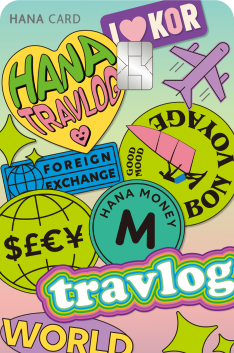
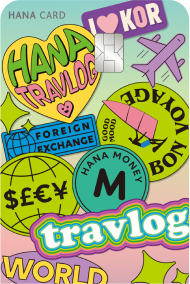
반응형페이지(수정06.14)

diff --git a/css/media.css b/css/media.css
@@ -29,7 +29,7 @@
     width: 100%;
   }
 
-  .img_wrap img{transform: scale(1.2);}
+  .img_wrap img{transform: scale(1.1);}
 
   /* 주요혜택 */
 
@@ -50,6 +50,7 @@
     justify-content: center;
     transform: translateX(0.5rem);
     margin-top: 2rem;
+    width: 100rem;
   }
 
   .atm1{
@@ -237,18 +238,7 @@
     width: 45rem;
   }
 
-  .img_wrap img{transform: scale(1.2);}
-
-  .deco2{
-    top:18rem;
-    left: 4rem;
-    width: 10rem;
-  }
-
-  .deco3{
-    left: 14rem;
-    margin-top: -2.2rem;
-  }
+  .deco img{transform:scale(1);}
 
   .in_txt p::after{
     top: 31.5rem;
@@ -277,11 +267,12 @@
     justify-content: center;
     transform: translateX(0.5rem);
     margin-top: 2rem;
+    width: 100rem;
   }
 
   .atm1{
     width: 30rem;
-    margin-right: 3rem;
+    margin-left: 4rem;
   }
 
   /* 서비스 */
@@ -343,11 +334,7 @@
     height: 45rem;
     display: flex;
     margin-left: 17rem;
-    margin-top: 8rem;
-  }
-
-  .d1, .d3 img{
-    margin-left: 0;
+    margin-top: 4rem;
   }
 
   .card_d img{
@@ -357,35 +344,37 @@
   }
 
   .d1{
-    margin-right: 3.3rem;
     width: 30rem;
-    height: 42rem;
+    height: 40rem;
     overflow: hidden;
+    margin-left: 6rem;
   }
-  .d1 img{width: 30rem;}
+  .d1 img{width: 25rem;}
 
   .d2{
-    width: 29rem;
-    height: 42rem;
+    width: 22rem;
+    height: 37rem;
     overflow: hidden;
+    margin-left: -6rem;
+    margin-top: 3rem;
   }
   .d3{
-    width: 29rem;
-    height: 42rem;
+    width: 22rem;
+    height: 37rem;
     overflow: hidden;
+    margin-left: 3rem;
+    margin-top: 3rem;
   }
 
   .d2, .d3 img{padding-top: 15rem;}
-  .d1 img{padding-top: 4rem;}
+  .d1 img{padding-top: 8rem;}
 
-  .card_d img:hover{
-    transform:rotate(0deg);
-  }
+  .card_d img:hover{transform:rotate(0deg);}
 
-  .d1 img:hover{transform: translateY(-3.7rem);}
+  .d1 img:hover{transform: translateY(-3.5rem);}
 
-  .d2 img:hover{transform: translateY(-4.3rem);}
-  .d3 img:hover{transform: translateY(-4.3rem);}
+  .d2 img:hover{transform: translateY(-4.1rem);}
+  .d3 img:hover{transform: translateY(-4.1rem);}
 
   /* 신청하기 */
 

diff --git a/css/style.css b/css/style.css
@@ -168,10 +168,6 @@ header .hd{
   margin-top: 3rem;
   opacity: 0;
 }
-.img_wrap{
-  margin-top: 3rem;
-  opacity: 0;
-}
 
 .img_wrap img{transform: scale(1);}
 
@@ -201,27 +197,11 @@ header .hd{
 }
 
 .img_wrap{
-  position: relative;
-  width: 42rem;
-  height: 45rem;
+  margin-top: 6rem;
+  opacity: 0;
 }
 
-.deco1{
-  position: absolute;
-  top: 35rem;
-}
-.deco2{
-  position: absolute;
-  top: 6.5em;
-  left: 4rem;
-}
-.deco3{
-  position: absolute;
-  transform: rotate(90deg);
-  width: 32rem;
-  top: 12rem;
-  left: 11rem;
-}
+.deco img{margin: 0 auto;}
 
 /* 주요혜택 */
 
@@ -238,10 +218,16 @@ header .hd{
   font-size: 2.9rem;
 }
 
+.atm_all{
+  width: 24rem;
+  margin: 0 auto;
+}
+
+
 .atm1{
   margin-top: 9rem;
+  justify-content: center;
   display: inline-block;
-  margin-left: 9rem;
   opacity: 0;
 }
 
@@ -270,10 +256,12 @@ header .hd{
 
 /* 서비스 */
 
+#service{
+  margin-top: 3rem;
+}
+
 .point{
   padding: 3rem;
-  padding-top: 6rem;
-  height: 154rem;
   opacity: 0;
 }
 
@@ -282,7 +270,6 @@ header .hd{
   font-weight: 400;
   font-size: 2.7rem;
   margin-bottom: 4rem;
-  margin-top: 3rem;
 }
 
 .point span{
@@ -349,10 +336,15 @@ header .hd{
 }
 
 /* 카드디자인 */
+
+
+#design{
+  margin-top: -3rem;
+}
+
 .design_all{
   padding: 3rem;
   padding-top: 6rem;
-  height: 112rem;
   background-color: #7A4BFF;
 }
 
@@ -380,25 +372,23 @@ header .hd{
   font-weight: 500;
 }
 
-.card_d{
-  height: 80rem;
-}
+.card_d{overflow: hidden;}
 
 .card_d img{
-  width: 20rem;
-  transform: translateX(6rem) rotate(-90deg);
+  transform: translateX(2rem) rotate(-90deg);
   transition: 0.4s;
 }
 
 .d1, .d2, .d3{opacity: 0;}
 
 .d2 img{
-  transform: translateX(-6rem) rotate(90deg);
+  transform: translateX(-2rem) rotate(90deg);
   margin-top: -5rem;
+  padding-left: 1rem;
 }
 
 .d1, .d3 img{
-  margin-left: 20rem;
+  margin-left: 18.7rem;
 }
 
 .d3 img{margin-top: -5rem;}

diff --git a/index.html b/index.html
@@ -82,9 +82,7 @@
         <span>자세히보기</span>
       </div>
       <div class="img_wrap">
-        <div class="deco deco1"><img src="image/field.png" alt="field"></div>
-        <div class="deco deco2"><img src="image/carrier.png" alt=""></div>
-        <div class="deco deco3"><img src="image/card1.png" alt=""></div>
+        <div class="deco deco1"><img src="image/group.png" alt="field"></div>
       </div>
     </div>
   </section>
